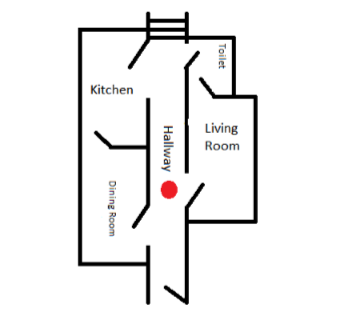
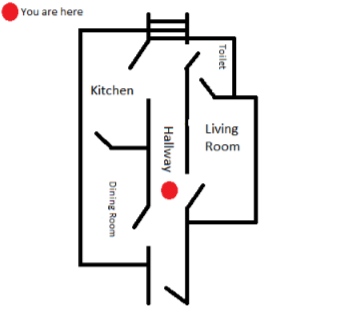
Map for all floors and rooms

diff --git a/ZorkUL.cpp b/ZorkUL.cpp
@@ -13,8 +13,8 @@ void ZorkUL::createRooms()  {
     Floor *f;
 
     // Basement
-    a = new Room("Storage", "", true, false);
-    b = new Room("Boiler Room", "", false, false);
+    a = new Room("Storage", ":/maps/basement_storage.png", true, false);
+    b = new Room("Boiler Room", ":/maps/basement_boiler.png", false, false);
 
     listOfRooms.push_back(b);
     a->setExits(listOfRooms);
@@ -142,18 +142,20 @@ bool ZorkUL::canGoUpstairs() {
     return currentRoom->canGoUp();
 }
 
-void ZorkUL::moveFloorUp() {
+QPixmap ZorkUL::moveFloorUp() {
     currentFloor = floorList.at(currentFloor->getFloorNum() + 1);
     currentRoom = currentFloor->getRooms().at(0);
+    return currentRoom->getPixmap();
 }
 
 bool ZorkUL::canGoDownstairs() {
     return currentRoom->canGoDown();
 }
 
-void ZorkUL::moveFloorDown() {
+QPixmap ZorkUL::moveFloorDown() {
     currentFloor = floorList.at(currentFloor->getFloorNum() - 1);
     currentRoom = currentFloor->getRooms().at(0);
+    return currentRoom->getPixmap();
 }
 
 QPixmap ZorkUL::go(QString selectedExit) {

diff --git a/mainwindow.cpp b/mainwindow.cpp
@@ -77,7 +77,7 @@ void MainWindow::clearExitList() {
 
 void MainWindow::on_upButton_clicked()
 {
-    zork->moveFloorUp();
+    ui->mapImage->setPixmap(zork->moveFloorUp());
     displayCurrentRoomInfo();
     clearExitList();
     floorMoveAllowed();
@@ -86,7 +86,7 @@ void MainWindow::on_upButton_clicked()
 void MainWindow::on_downButton_clicked()
 {
 
-    zork->moveFloorDown();
+    ui->mapImage->setPixmap(zork->moveFloorDown());
     displayCurrentRoomInfo();
     clearExitList();
     floorMoveAllowed();

diff --git a/ZorkUL.h b/ZorkUL.h
@@ -38,8 +38,8 @@ public:
     Floor* getCurrentFloor();
     bool canGoUpstairs();
     bool canGoDownstairs();
-    void moveFloorUp();
-    void moveFloorDown();
+    QPixmap moveFloorUp();
+    QPixmap moveFloorDown();
 	ZorkUL();
 	void play();
     void goTeleport();
